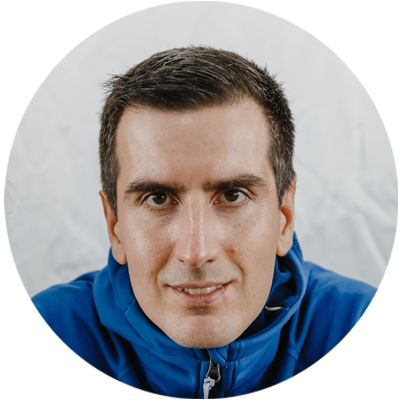
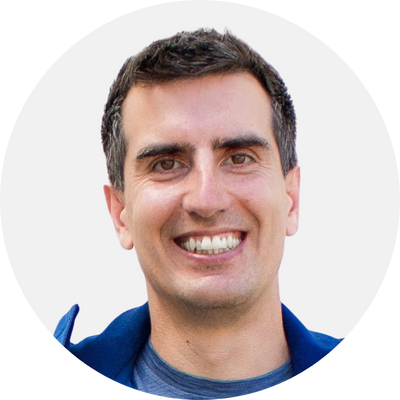
Update about page: restructure team sections, update styling, and refresh team photos
- Reorganize team into 'The Team That Ships' and 'The Engine Behind Delivery' sections
- Add subtitle for Finance and Marketing team
- Add Berit Janson (Executive Assistant)
- Replace Vera Zhukova with Anastasia Filatova (Marketing Director)
- Update all team member photos with new versions
- Standardize team member descriptions with consistent div formatting
- Remove FivexL Advisors section
- Update Book a consultation button styling to match site-wide design
- Add white background to CTA section
- Center and resize FivexL description text to match container widths
- Move CTA section outside team section for proper layout

diff --git a/layouts/about/list.html b/layouts/about/list.html
@@ -96,10 +96,10 @@
 <div class="elementor-row">
 <div class="elementor-column elementor-col-100 elementor-top-column elementor-element elementor-element-3212308" data-id="3212308" data-element_type="column">
 <div class="elementor-column-wrap elementor-element-populated">
-<div class="elementor-widget-wrap">
+<div class="elementor-widget-wrap" style="width: 1120px; max-width: 100%; margin-left: auto; margin-right: auto;">
 <div class="elementor-element elementor-element-403638b elementor-widget elementor-widget-heading" data-id="403638b" data-element_type="widget" data-widget_type="heading.default">
 <div class="elementor-widget-container">
-<h2 class="elementor-heading-title elementor-size-default"><span style="color: #f03687;">FivexL</span> is a group of independent <span style="color: #f03687;">Cloud Engineering Specialists.</span> We help startups launch their products super fast by building scalable, <span style="color: #f03687;">cloud-based</span>, production-ready platforms. Wherever you are in your DevSecOps journey, we have <span style="color: #f03687;">experts</span> who can help. </h2>	</div>
+<h2 class="elementor-heading-title elementor-size-default" style="text-align: center; margin-bottom: 20px; width: 100%;"><span style="color: #f03687;">FivexL</span> is a group of independent <span style="color: #f03687;">Cloud Engineering Specialists.</span> We help startups launch their products super fast by building scalable, <span style="color: #f03687;">cloud-based</span>, production-ready platforms. Wherever you are in your DevSecOps journey, we have <span style="color: #f03687;">experts</span> who can help. </h2>	</div>
 </div>
 </div>
 </div>
@@ -217,9 +217,9 @@
 <div class="elementor-column elementor-col-100 elementor-top-column elementor-element elementor-element-17974e5" data-id="17974e5" data-element_type="column">
 <div class="elementor-column-wrap elementor-element-populated">
 <div class="elementor-widget-wrap">
-<div class="elementor-element elementor-element-757e5b8 elementor-widget elementor-widget-heading" data-id="757e5b8" data-element_type="widget" data-widget_type="heading.default">
+<div class="elementor-element elementor-widget elementor-widget-heading" data-element_type="widget" data-widget_type="heading.default">
 <div class="elementor-widget-container">
-<h2 class="elementor-heading-title elementor-size-default">Reach out to our team of experts and lets start your DevSecOps journey together with FivexL</h2>	</div>
+<h2 class="elementor-heading-title elementor-size-default" style="color: rgb(40, 37, 36); font-size: 58px; font-weight: 600; line-height: 54px; text-align: center; margin: 0; padding: 0; width: 1120px; max-width: 100%; margin-left: auto; margin-right: auto; margin-bottom: 2rem;">The Team That Ships</h2>	</div>
 </div>
 <section class="elementor-section elementor-inner-section elementor-element elementor-element-b402426 elementor-section-boxed elementor-section-height-default elementor-section-height-default" data-id="b402426" data-element_type="section" data-settings="{&quot;background_background&quot;:&quot;classic&quot;}">
 <div class="elementor-container elementor-column-gap-default">
@@ -233,8 +233,8 @@
 </a></div>
 <div class="elementor-element elementor-element-3a18ba2 elementor-widget elementor-widget-text-editor" data-id="3a18ba2" data-element_type="widget" data-widget_type="text-editor.default">
 <div class="elementor-widget-container">
-<div class="elementor-text-editor elementor-clearfix"><div>Certified AWS Architect
-</div><div>Continuous Integration and Delivery specialist</div>
+<div class="elementor-text-editor elementor-clearfix"><div>Certified AWS Architect</div>
+<div>Continuous Integration and Delivery specialist</div>
 <div>Public speaker</div>
 <div>Podcaster</div></div>
 </div>
@@ -266,7 +266,9 @@
 </a></div>
 <div class="elementor-element elementor-element-c7b6b6d elementor-widget elementor-widget-text-editor" data-id="c7b6b6d" data-element_type="widget" data-widget_type="text-editor.default">
 <div class="elementor-widget-container">
-<div class="elementor-text-editor elementor-clearfix"><p>Certified AWS Architect<br>Containerization Specialist focused on AWS ECS<br>Continuous Integration and Delivery Specialist</p><div>&#xA0;</div></div>
+<div class="elementor-text-editor elementor-clearfix"><div>Certified AWS Architect</div>
+<div>Containerization Specialist focused on AWS ECS</div>
+<div>Continuous Integration and Delivery Specialist</div></div>
 </div>
 </div>
 </div>
@@ -349,6 +351,28 @@
 </div>
 </div>
 <div class="elementor-column elementor-col-33 elementor-inner-column elementor-element elementor-element-7b332e2" data-id="7b332e2" data-element_type="column">
+<div class="elementor-column-wrap">
+<div class="elementor-widget-wrap">
+</div>
+</div>
+</div>
+<div class="elementor-column elementor-col-33 elementor-inner-column elementor-element elementor-element-b6959f0" data-id="b6959f0" data-element_type="column">
+<div class="elementor-column-wrap">
+<div class="elementor-widget-wrap">
+</div>
+</div>
+</div>
+</div>
+</div>
+</section>
+<div class="elementor-element elementor-widget elementor-widget-heading" data-element_type="widget" data-widget_type="heading.default">
+<div class="elementor-widget-container">
+<h2 class="elementor-heading-title elementor-size-default" style="color: rgb(40, 37, 36); font-size: 58px; font-weight: 600; line-height: 54px; text-align: center; margin: 0; padding: 0; width: 1120px; max-width: 100%; margin-left: auto; margin-right: auto; margin-top: 2rem; margin-bottom: 2rem;">The Engine Behind Delivery</h2>	</div>
+</div>
+<section class="elementor-section elementor-inner-section elementor-element elementor-element-715b370 elementor-section-boxed elementor-section-height-default elementor-section-height-default" data-id="715b370" data-element_type="section" data-settings="{&quot;background_background&quot;:&quot;classic&quot;}">
+<div class="elementor-container elementor-column-gap-default">
+<div class="elementor-row">
+<div class="elementor-column elementor-col-33 elementor-inner-column elementor-element elementor-element-f47ede1" data-id="f47ede1" data-element_type="column">
 <div class="elementor-column-wrap elementor-element-populated">
 <div class="elementor-widget-wrap">
 <div class="elementor-element elementor-element-929fa7d elementor-vertical-align-middle top-radius elementor-position-top elementor-widget elementor-widget-image-box" data-id="929fa7d" data-element_type="widget" data-widget_type="image-box.default">
@@ -363,13 +387,13 @@
 </div>
 </div>
 </div>
-<div class="elementor-column elementor-col-33 elementor-inner-column elementor-element elementor-element-b6959f0" data-id="b6959f0" data-element_type="column">
+<div class="elementor-column elementor-col-33 elementor-inner-column elementor-element elementor-element-7b332e2" data-id="7b332e2" data-element_type="column">
 <div class="elementor-column-wrap elementor-element-populated">
 <div class="elementor-widget-wrap">
 <div class="elementor-element elementor-element-e8122cc elementor-vertical-align-middle top-radius elementor-position-top elementor-widget elementor-widget-image-box" data-id="e8122cc" data-element_type="widget" data-widget_type="image-box.default">
-<div class="elementor-widget-container"><a href="/author/vera-zhukova/">
-<div class="elementor-image-box-wrapper"><figure class="elementor-image-box-img"><img width="400" height="400" src="/wp-content/uploads/2022/10/Vera_round.png" class="attachment-full size-full" alt="vera.png" loading="lazy"></figure><div class="elementor-image-box-content"><h3 class="elementor-image-box-title">Vera Zhukova</h3><p class="elementor-image-box-description">Marketing Director</p></div></div>	</div>
-</a></div>
+<div class="elementor-widget-container">
+<div class="elementor-image-box-wrapper"><figure class="elementor-image-box-img"><img width="400" height="400" src="/wp-content/uploads/2022/10/Vera_round.png" class="attachment-full size-full" alt="anastasia.png" loading="lazy"></figure><div class="elementor-image-box-content"><h3 class="elementor-image-box-title">Anastasia Filatova</h3><p class="elementor-image-box-description">Marketing Director</p></div></div>	</div>
+</div>
 <div class="elementor-element elementor-element-e2f6e63 elementor-widget elementor-widget-text-editor" data-id="e2f6e63" data-element_type="widget" data-widget_type="text-editor.default">
 <div class="elementor-widget-container">
 <div class="elementor-text-editor elementor-clearfix"><div></div><div></div><div></div></div>
@@ -378,79 +402,18 @@
 </div>
 </div>
 </div>
-</div>
-</div>
-</section>
-<div class="elementor-element elementor-element-5f3d006 elementor-button-info elementor-align-center elementor-widget elementor-widget-button" data-id="5f3d006" data-element_type="widget" data-widget_type="button.default">
-<div class="elementor-widget-container">
-<div class="elementor-button-wrapper">
-<a href="https://sales.fivexl.io/schedule-a-call" class="elementor-button-link elementor-button elementor-size-xs" role="button">
-<span class="elementor-button-content-wrapper">
-<span class="elementor-button-text">CONTACT</span>
-</span>
-</a>
-</div>
-</div>
-</div>
-</div>
-</div>
-</div>
-</div>
-</div>
-</section>
-<section class="elementor-section elementor-top-section elementor-element elementor-element-60857f2 elementor-section-boxed elementor-section-height-default elementor-section-height-default" data-id="60857f2" data-element_type="section" data-settings="{&quot;background_background&quot;:&quot;gradient&quot;}">
-<div class="elementor-container elementor-column-gap-default">
-<div class="elementor-row">
-<div class="elementor-column elementor-col-100 elementor-top-column elementor-element elementor-element-41b28e6" data-id="41b28e6" data-element_type="column">
+<div class="elementor-column elementor-col-33 elementor-inner-column elementor-element elementor-element-b6959f0" data-id="b6959f0" data-element_type="column">
 <div class="elementor-column-wrap elementor-element-populated">
 <div class="elementor-widget-wrap">
-<div class="elementor-element elementor-element-7d1dceb elementor-widget elementor-widget-heading" data-id="7d1dceb" data-element_type="widget" data-widget_type="heading.default">
+<div class="elementor-element elementor-element-e8048fe elementor-vertical-align-middle top-radius elementor-position-top elementor-widget elementor-widget-image-box" data-id="e8048fe" data-element_type="widget" data-widget_type="image-box.default">
 <div class="elementor-widget-container">
-<h2 class="elementor-heading-title elementor-size-default">FivexL Advisors</h2>	</div>
+<div class="elementor-image-box-wrapper"><figure class="elementor-image-box-img"><img width="400" height="400" src="/wp-content/uploads/2022/10/Berit.png" class="attachment-full size-full" alt="Berit.png" loading="lazy"></figure><div class="elementor-image-box-content"><h3 class="elementor-image-box-title">Berit Janson</h3><p class="elementor-image-box-description">Executive Assistant</p></div></div>	</div>
 </div>
-<section class="elementor-section elementor-inner-section elementor-element elementor-element-0707b47 elementor-section-boxed elementor-section-height-default elementor-section-height-default" data-id="0707b47" data-element_type="section" data-settings="{&quot;background_background&quot;:&quot;classic&quot;}">
-<div class="elementor-container elementor-column-gap-default">
-<div class="elementor-row">
-<div class="elementor-column elementor-col-25 elementor-inner-column elementor-element elementor-element-6bedc42" data-id="6bedc42" data-element_type="column">
-<div class="elementor-column-wrap">
-<div class="elementor-widget-wrap">
-</div>
-</div>
-</div>
-<div class="elementor-column elementor-col-25 elementor-inner-column elementor-element elementor-element-3d460ca" data-id="3d460ca" data-element_type="column">
-<div class="elementor-column-wrap elementor-element-populated">
-<div class="elementor-widget-wrap">
-<div class="elementor-element elementor-element-2d91bcf elementor-vertical-align-middle top-radius elementor-position-top elementor-widget elementor-widget-image-box" data-id="2d91bcf" data-element_type="widget" data-widget_type="image-box.default">
+<div class="elementor-element elementor-element-950dcf1 elementor-widget elementor-widget-text-editor" data-id="950dcf1" data-element_type="widget" data-widget_type="text-editor.default">
 <div class="elementor-widget-container">
-<div class="elementor-image-box-wrapper"><figure class="elementor-image-box-img"><img width="400" height="400" src="/wp-content/uploads/2020/07/babenko_advisor.png" class="attachment-full size-full" alt="" loading="lazy"></figure><div class="elementor-image-box-content"><h3 class="elementor-image-box-title">Anton Babenko</h3><p class="elementor-image-box-description">Terraform specialist <br> HashiCorp Ambassador
-AWS Community Hero</p></div></div>	</div>
-</div>
-<div class="elementor-element elementor-element-28801c7 elementor-widget elementor-widget-text-editor" data-id="28801c7" data-element_type="widget" data-widget_type="text-editor.default">
-<div class="elementor-widget-container">
-<div class="elementor-text-editor elementor-clearfix"><div>Senior consultant, CTO</div><div>AWS Expert</div><div>Specialises on infrastructure as code, DevOps, and reusable infrastructure components</div></div>
+<div class="elementor-text-editor elementor-clearfix"><div></div></div>
 </div>
 </div>
-</div>
-</div>
-</div>
-<div class="elementor-column elementor-col-25 elementor-inner-column elementor-element elementor-element-5bd8cf3" data-id="5bd8cf3" data-element_type="column">
-<div class="elementor-column-wrap elementor-element-populated">
-<div class="elementor-widget-wrap">
-<div class="elementor-element elementor-element-d3ff2f2 elementor-vertical-align-middle top-radius elementor-position-top elementor-widget elementor-widget-image-box" data-id="d3ff2f2" data-element_type="widget" data-widget_type="image-box.default">
-<div class="elementor-widget-container">
-<div class="elementor-image-box-wrapper"><figure class="elementor-image-box-img"><img width="400" height="400" src="/wp-content/uploads/2020/07/Bisconti_advisor.png" class="attachment-full size-full" alt="" loading="lazy"></figure><div class="elementor-image-box-content"><h3 class="elementor-image-box-title">Julien Bisconti</h3><p class="elementor-image-box-description">Google Cloud/DataOps Expert</p></div></div>	</div>
-</div>
-<div class="elementor-element elementor-element-a5477a5 elementor-widget elementor-widget-text-editor" data-id="a5477a5" data-element_type="widget" data-widget_type="text-editor.default">
-<div class="elementor-widget-container">
-<div class="elementor-text-editor elementor-clearfix"><div>Senior consultant</div><div>Conference speaker</div><p>Google Developer Expert Specialises on site reliability and data transactions in distributed systems</p></div>
-</div>
-</div>
-</div>
-</div>
-</div>
-<div class="elementor-column elementor-col-25 elementor-inner-column elementor-element elementor-element-51eb53c" data-id="51eb53c" data-element_type="column">
-<div class="elementor-column-wrap">
-<div class="elementor-widget-wrap">
 </div>
 </div>
 </div>
@@ -462,6 +425,10 @@ AWS Community Hero</p></div></div>	</div>
 </div>
 </div>
 </div>
+</section>
+<section class="ccta">
+<h2 class="ccta-Heading">Reach out to our team of experts and lets start your DevSecOps journey together with FivexL</h2>
+{{- partial "button_cta" (dict "url" "https://sales.fivexl.io/schedule-a-call" "text" "Book a consultation") -}}
 </section>
 </div>
 </div>

diff --git a/themes/example/assets/sass/callout_cta.scss b/themes/example/assets/sass/callout_cta.scss
@@ -4,6 +4,7 @@
   padding: 3rem;
   max-width: 1920px;
   margin-inline: auto;
+  background: white;
   @media (min-width: 540px) {
     padding: 6.5rem clamp(3rem, 15vw, 17rem) clamp(3rem, 4vw, 6rem);
   }

diff --git a/content/_index.md b/content/_index.md
@@ -60,5 +60,5 @@ There’s no problem that we can’t solve together!
 
 {{< /steps_section >}}
 
-{{< callout_cta heading="This way, you can focus on what you do best <br> without worrying about the underlying infrastructure." cta_url="https://sales.fivexl.io/schedule-a-call" cta_text="Book a consultation" >}}
+{{< callout_cta heading="This way, you can focus on what you do best without worrying about the underlying infrastructure." cta_url="https://sales.fivexl.io/schedule-a-call" cta_text="Book a consultation" >}}
 
